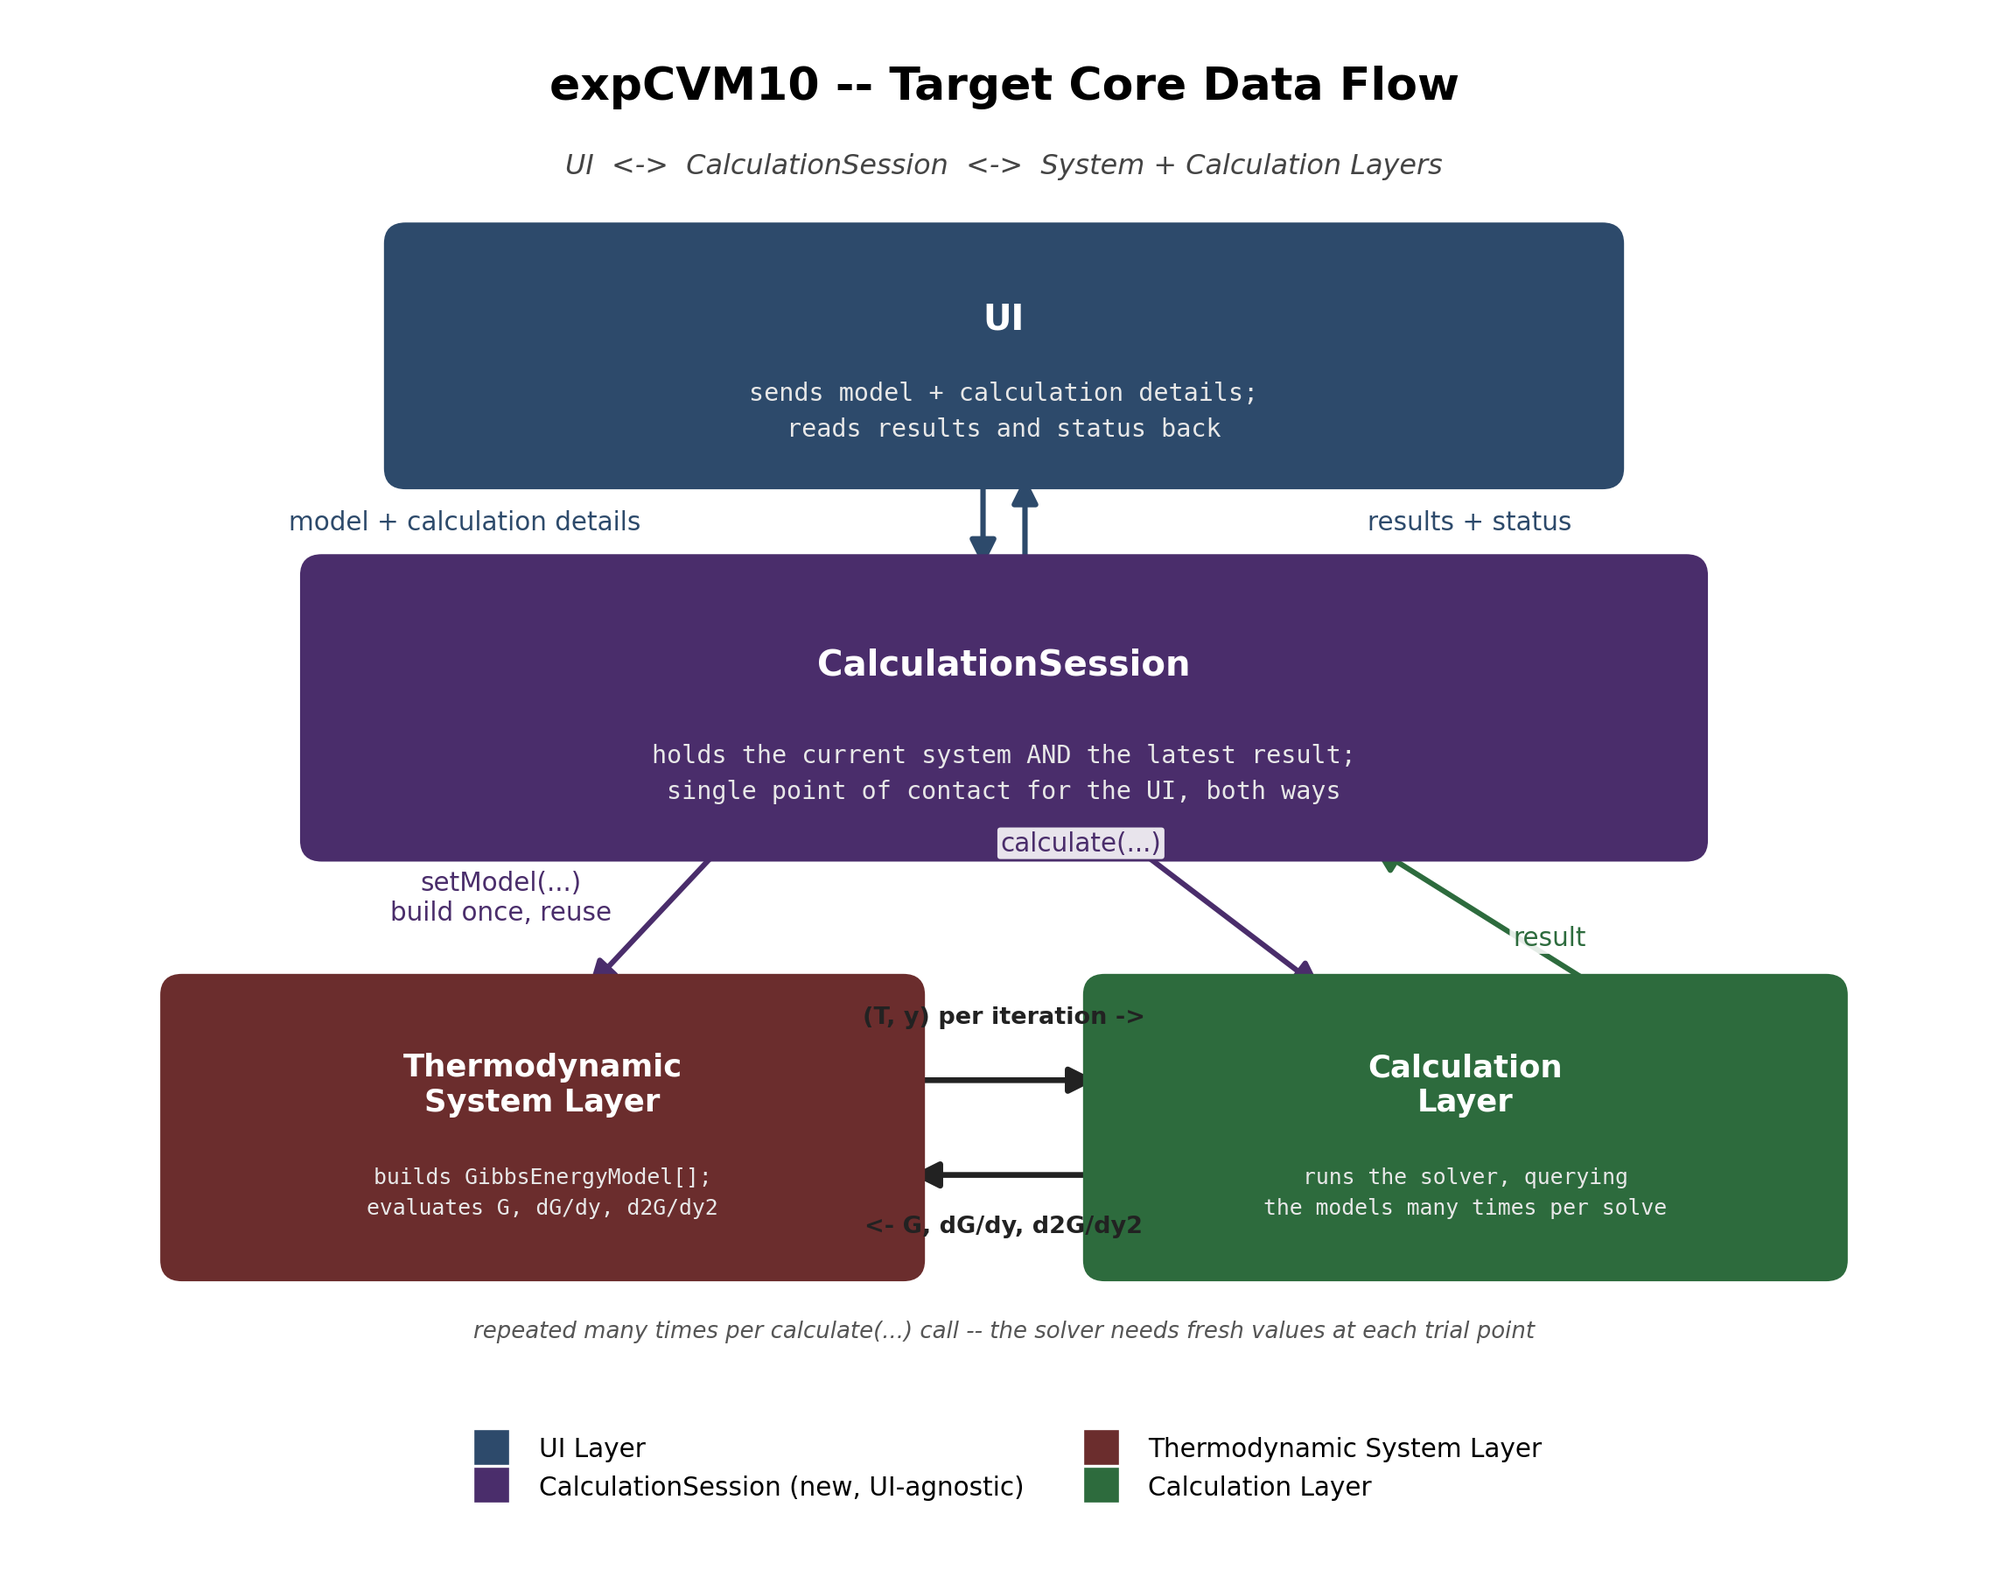
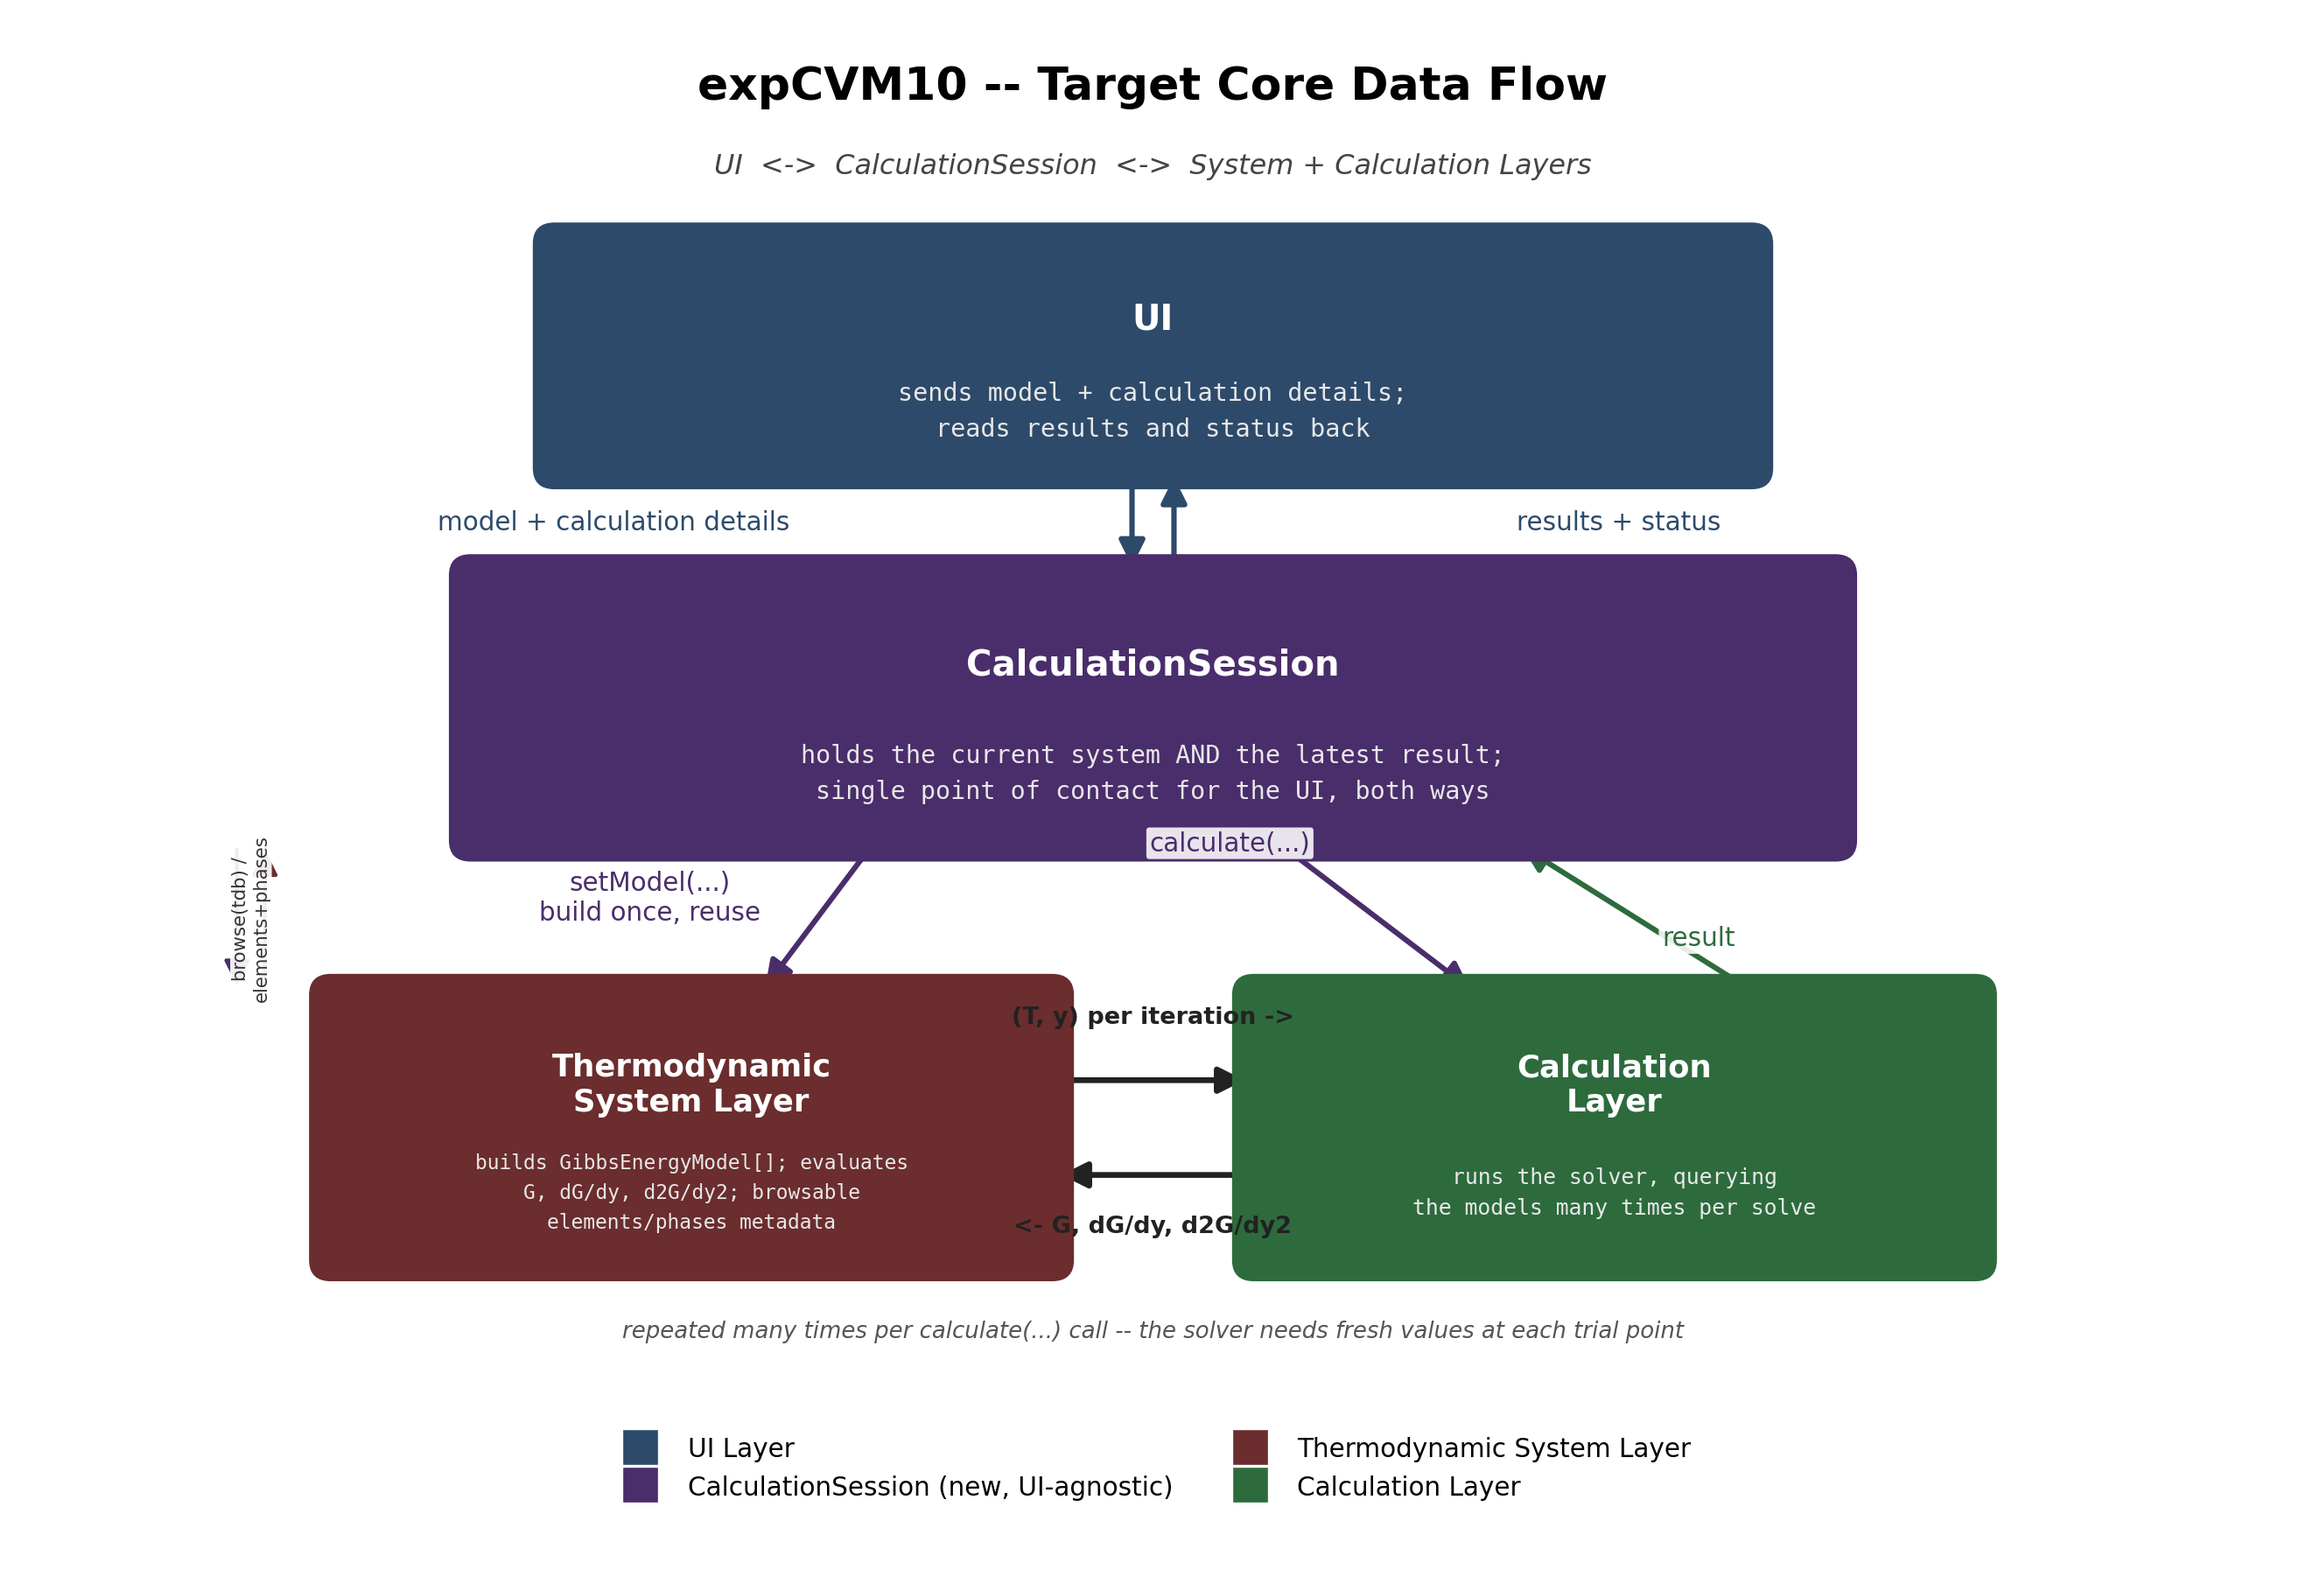
Add browsing capability to the target data flow figure
CalculationSession now shows two distinct System Layer interactions:
setModel(...) (build a calculable ThermodynamicSystem) and a new
browse(tdb) <-> elements/phases exchange (lightweight, calculation-free
metadata queries), drawn in its own vertical lane to the left of the
System box so it doesn't collide with setModel or the System<->
Calculation loop's labels below.

This keeps the figure -- the authoritative reference used to design
GUI/CLI/API wiring -- in sync with the corrected plan in
docs/plan-gui-calculationsession-wiring.md: a UI's model-browsing
screens (pick a database, see available elements/phases) must reach
the System Layer exclusively through CalculationSession, matching the
diagram's single UI<->CalculationSession contact point, not around it
via a separate ModelInspectionService path.

diff --git a/docs/gen_target_dataflow_figure.py b/docs/gen_target_dataflow_figure.py
@@ -13,6 +13,16 @@ Corrected topology (2026-09-09, per user):
 - System Layer <-> Calculation Layer is a real, repeated, two-way loop
   within one calculation (many (T,y) queries per solve), not a single
   handoff -- drawn as a double-headed loop, not a one-way arrow.
+
+Browsing capability (2026-09-10, per user, docs/plan-gui-calculationsession-wiring.md):
+- CalculationSession also exposes lightweight, calculation-free System
+  Layer QUERIES (available elements in a database; available phases for
+  a chosen element set) -- not just setModel's full model-build. Drawn
+  as a second CalculationSession<->System arrow, alongside setModel, so
+  the diagram doesn't imply System Layer access is calculation-only.
+  This is what keeps a UI's model-browsing screens (pick a database,
+  see what elements/phases exist) from ever reaching around
+  CalculationSession into the System Layer directly.
 """
 import matplotlib
 matplotlib.use("Agg")
@@ -20,7 +30,7 @@ import matplotlib.pyplot as plt
 from matplotlib.patches import FancyBboxPatch, FancyArrowPatch
 from matplotlib.lines import Line2D
 
-FIG_W, FIG_H = 13.5, 10.7
+FIG_W, FIG_H = 15.5, 10.7
 fig, ax = plt.subplots(figsize=(FIG_W, FIG_H))
 ax.set_xlim(0, FIG_W)
 ax.set_ylim(0, FIG_H)
@@ -67,7 +77,8 @@ b_session = box(cx, 5.7, 9.8, 2.0, "CalculationSession",
                 "holds the current system AND the latest result;\n"
                 "single point of contact for the UI, both ways", COL_SESSION)
 b_sys = box(cx - 3.3, 2.6, 5.2, 2.0, "Thermodynamic\nSystem Layer",
-            "builds GibbsEnergyModel[];\nevaluates G, dG/dy, d2G/dy2", COL_SYS, title_fs=15, sub_fs=10.5)
+            "builds GibbsEnergyModel[]; evaluates\nG, dG/dy, d2G/dy2; browsable\nelements/phases metadata",
+            COL_SYS, title_fs=15, sub_fs=9.7)
 b_calc = box(cx + 3.3, 2.6, 5.2, 2.0, "Calculation\nLayer",
              "runs the solver, querying\nthe models many times per solve", COL_CALC, title_fs=15, sub_fs=10.5)
 
@@ -82,8 +93,18 @@ ax.text(cx + 2.6, (b_ui['bot']+b_session['top'])/2, "results + status",
         bbox=dict(boxstyle="round,pad=0.12", fc="white", ec="none", alpha=0.88))
 
 # ── CalculationSession -> System: setModel (one-way trigger) ────────
-arrow((b_session['cx']-2.0, b_session['bot']), (b_sys['cx']+0.3, b_sys['top']), COL_SESSION,
+arrow((b_session['cx']-2.0, b_session['bot']), (b_sys['cx']+0.5, b_sys['top']), COL_SESSION,
       label="setModel(...)\nbuild once, reuse", label_xy=(b_session['cx']-3.6, (b_session['bot']+b_sys['top'])/2 + 0.15))
+
+# ── CalculationSession <-> System: browse (elements/phases queries, two-way) ──
+# Own vertical lane to the LEFT of the System box entirely, clear of
+# setModel and the System<->Calculation loop's labels.
+browse_x = b_sys['left'] - 0.55
+arrow((browse_x-0.1, b_session['bot']), (browse_x-0.1, b_sys['top']), COL_SESSION, lw=1.8, style="-|>")
+arrow((browse_x+0.1, b_sys['top']), (browse_x+0.1, b_session['bot']), COL_SYS, lw=1.8, style="-|>")
+ax.text(browse_x, (b_session['bot']+b_sys['top'])/2,
+        "browse(tdb) /\nelements+phases", fontsize=9, ha="center", va="center", color="#333",
+        rotation=90, bbox=dict(boxstyle="round,pad=0.1", fc="white", ec="none", alpha=0.92))
 
 # ── CalculationSession <-> Calculation: calculate(...) / result (two-way) ──
 arrow((b_session['cx']+0.9, b_session['bot']), (b_calc['cx']-1.0, b_calc['top']), COL_SESSION,
